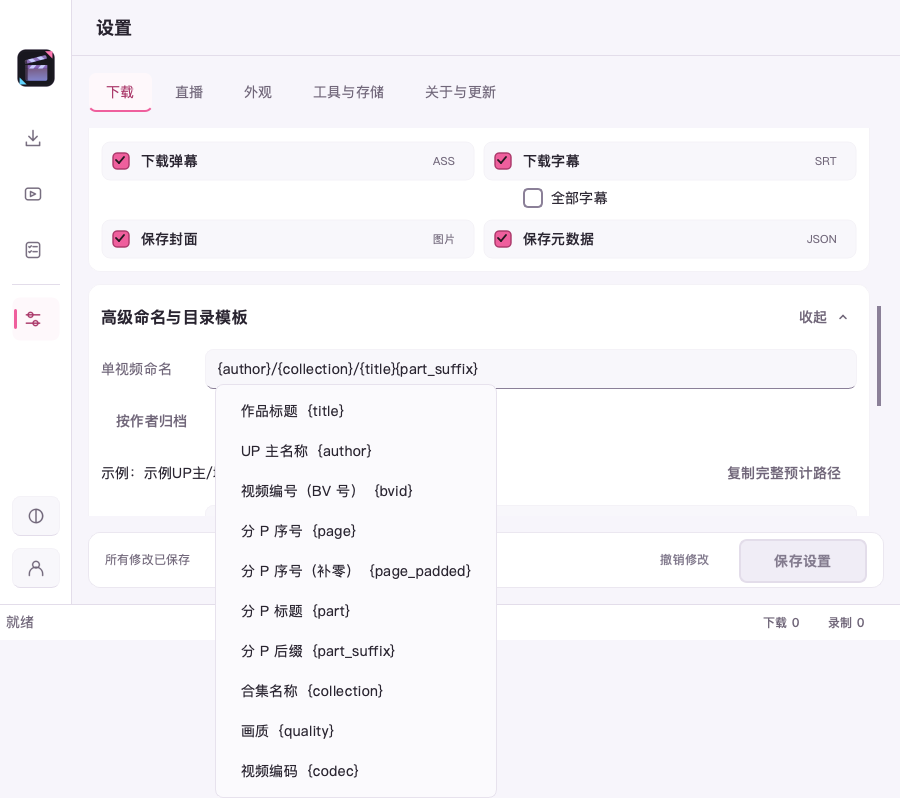
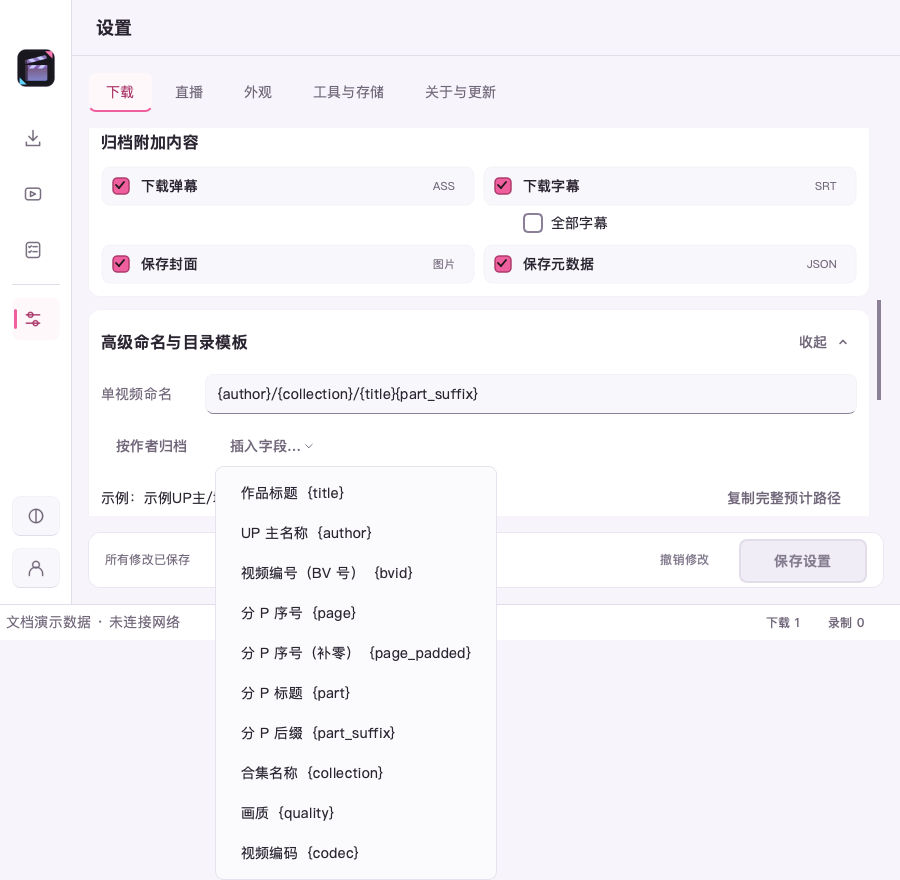
fix: release benchmark database before Windows cleanup

diff --git a/scripts/benchmark_archive.py b/scripts/benchmark_archive.py
@@ -11,6 +11,7 @@ import platform
 import sqlite3
 import tempfile
 import time
+from contextlib import closing
 from pathlib import Path
 
 os.environ.setdefault("QT_QPA_PLATFORM", "offscreen")
@@ -47,7 +48,7 @@ def main():
         repository = LibraryRepository(root / "library.sqlite3")
         tasks = TaskRepository(root / "tasks.sqlite3")
         task_items = []
-        with sqlite3.connect(repository.database_path) as db:
+        with closing(sqlite3.connect(repository.database_path)) as db, db:
             for n in range(10_000):
                 path = root / f"fixture-{n:05d}.mp4"
                 path.write_bytes(b"x")
@@ -114,9 +115,9 @@ def main():
         window.request_quit(confirmed=True)
         page.close()
         table.close()
-        args.output.parent.mkdir(parents=True, exist_ok=True)
-        args.output.write_text(json.dumps(report, ensure_ascii=False, indent=2) + "\n", encoding="utf-8")
-        print(json.dumps(report, ensure_ascii=False, indent=2))
+    args.output.parent.mkdir(parents=True, exist_ok=True)
+    args.output.write_text(json.dumps(report, ensure_ascii=False, indent=2) + "\n", encoding="utf-8")
+    print(json.dumps(report, ensure_ascii=False, indent=2))
     return 0
 
 

diff --git a/scripts/capture_docs_screenshots.py b/scripts/capture_docs_screenshots.py
@@ -1846,9 +1846,10 @@ def _capture_archive(app, theme, window, temp_root):
         panel._templates_section.set_expanded(True)
         window.resize(900, 640)
         window.show()
-        panel.tabs.currentWidget().ensureWidgetVisible(panel._path_template)
         _flush_events(app)
         insert = next(button for button in panel.findChildren(QPushButton) if button.text() == "插入字段…")
+        panel.tabs.currentWidget().ensureWidgetVisible(insert)
+        _flush_events(app)
         menu = insert.menu()
         menu.popup(insert.mapToGlobal(QPoint(0, insert.height())))
         _save_widget(app, window, f"naming-fields-{mode}.png", popup=menu)

diff --git a/docs/ARCHIVE_WORKFLOW_VALIDATION.md b/docs/ARCHIVE_WORKFLOW_VALIDATION.md
@@ -69,6 +69,8 @@ GitHub 验收使用独立 `codex/archive-workflow-acceptance` 分支：推送触
 
 首轮 Windows 打包任务还暴露批量停止测试的固定十秒等待过早到期；测试替身改为等待取消事件，并在退出时确保释放线程。仍要求 110 个真实线程池任务停止后整批移除、在主线程处理回调、撤销后全部保持暂停状态。
 
+第二轮 Windows 原生专项与截图均已完成，但规模基准清理临时目录时失败：SQLite 的事务上下文不会自动关闭连接。基准脚本显式关闭建档连接，并在临时目录清理成功后才写出结果。同步修正命名字段截图的滚动定位，确保深浅模式都显示「插入字段」按钮；应用行为不受这两项采集脚本修订影响。修复后继续执行完整 CI 与 `publish=false` 打包验收。
+
 ## 尚未完成的发布验收
 
 - Windows 发布包实机安装、升级、启动与回滚；本机无法执行 Windows 实机验收。
